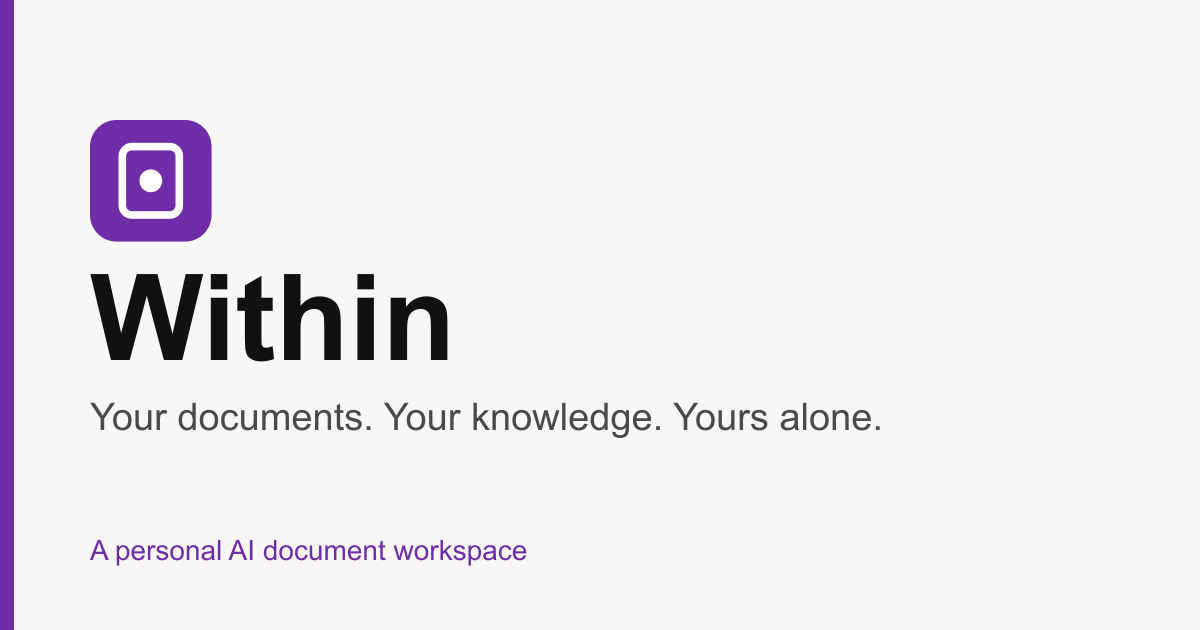
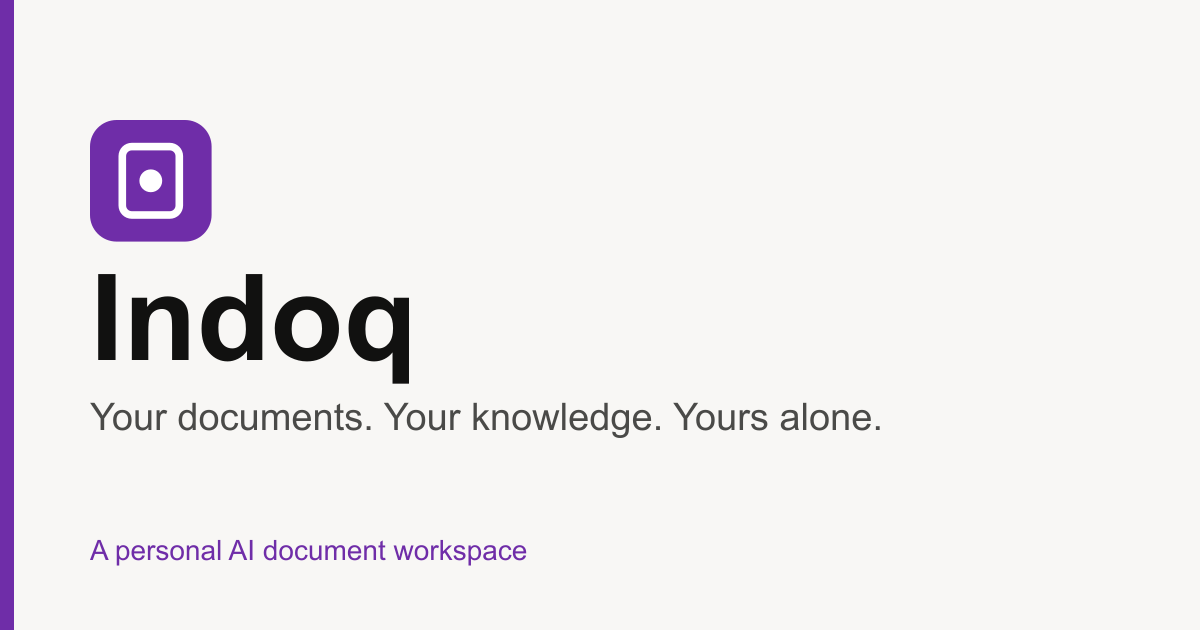
chore: rename the product from Within to Indoq

Changed region(s): [[0.0617, 0.4222, 0.4008, 0.6032]]

diff --git a/client/src/components/landing/ProductPreview.tsx b/client/src/components/landing/ProductPreview.tsx
@@ -1,7 +1,7 @@
 import { FileText, MessageSquare, Search } from "lucide-react";
 
 /*
-  A drawn copy of the Within workspace, not a screenshot, so it stays
+  A drawn copy of the Indoq workspace, not a screenshot, so it stays
   sharp at every size and follows the brand colours. The documents and
   the answer are illustrative examples.
 */
@@ -28,7 +28,7 @@ const ProductPreview = () => (
   <div className="landing-panel overflow-hidden rounded-2xl text-left">
     {/* Window bar */}
     <div className="flex items-center justify-between border-b border-white/10 px-4 py-3 sm:px-5">
-      <span className="font-display text-sm font-bold text-white">Within</span>
+      <span className="font-display text-sm font-bold text-white">Indoq</span>
       <div className="hidden items-center gap-1 rounded-full bg-white/5 p-1 text-[11px] sm:flex">
         <span className="rounded-full bg-white/10 px-3 py-1 text-white">Chat</span>
         <span className="px-3 py-1 text-white/50">Documents</span>

diff --git a/client/src/config/brand.ts b/client/src/config/brand.ts
@@ -1,16 +1,16 @@
 /*
   Single source of truth for all brand strings.
-  Working name: Within
+  Working name: Indoq
   When the final product name is chosen, we change this file only.
   Every title tag, OG tag, meta description, sitemap entry, and manifest entry pulls from here nothing else is hardcoded.
 */
 export const brand = {
-  name: "Within",
+  name: "Indoq",
   tagline: "Your documents. Your knowledge. Yours alone.",
   description:
-    "Within is a personal AI document workspace. Upload your documents, build a private knowledge base, and get grounded answers from your own sources.",
-  url: process.env.NEXT_PUBLIC_APP_URL ?? "https://within.app",
-  twitter: "@withinapp",
+    "Indoq is a personal AI document workspace. Upload your documents, build a private knowledge base, and get grounded answers from your own sources.",
+  url: process.env.NEXT_PUBLIC_APP_URL ?? "https://indoq.app",
+  twitter: "@indoqapp",
   og: {
     image: "/og-image.png",
   },

diff --git a/client/src/components/landing/Hero.tsx b/client/src/components/landing/Hero.tsx
@@ -40,7 +40,7 @@ const Hero = () => {
 
       <FadeUp onLoad delay={0.75}>
         <p className="mx-auto mt-6 max-w-xl text-base leading-relaxed text-white/70 sm:text-lg">
-          Upload PDFs, Word files and notes. Within reads them, indexes them, and answers your
+          Upload PDFs, Word files and notes. Indoq reads them, indexes them, and answers your
           questions with a citation to the exact passage.
         </p>
       </FadeUp>

diff --git a/client/src/components/conversation/ChatMessage.tsx b/client/src/components/conversation/ChatMessage.tsx
@@ -55,7 +55,7 @@ export const ChatMessage = ({
     >
       <div className="flex items-center gap-2 mb-1 px-1">
         <span className="text-xs font-medium text-text-secondary">
-          {isUser ? "You" : "Within"}
+          {isUser ? "You" : "Indoq"}
         </span>
         {formattedTime && (
           <span className="text-[10px] text-text-disabled">

diff --git a/client/src/components/landing/Bento.tsx b/client/src/components/landing/Bento.tsx
@@ -6,7 +6,7 @@ import RevealText from "./RevealText";
 /*
   The capabilities grid. Like the reference it mixes one solid accent
   card, a tilted product view, a conversation, and a card with a call
-  to action. All content describes what Within really does.
+  to action. All content describes what Indoq really does.
 */
 
 const Sparkles = () => (

diff --git a/client/src/components/landing/FormatStrip.tsx b/client/src/components/landing/FormatStrip.tsx
@@ -2,7 +2,7 @@ import { FileCode2, FileText, FileType2, NotebookText } from "lucide-react";
 import FadeUp from "./FadeUp";
 
 /*
-  Where the reference shows customer logos. Within has none to show
+  Where the reference shows customer logos. Indoq has none to show
   yet, so the strip lists the file types it reads instead.
 */
 const FORMATS = [

diff --git a/server/src/server.ts b/server/src/server.ts
@@ -85,7 +85,7 @@ const start = async () => {
   startIngestionWorker(); // start the ingestion worker to process document ingestion jobs
 
   app.listen(env.PORT, () => {
-    console.log(`Within API running on port ${env.PORT} [${env.NODE_ENV}]`);
+    console.log(`Indoq API running on port ${env.PORT} [${env.NODE_ENV}]`);
   });
 };
 

diff --git a/client/src/store/workspace.store.ts b/client/src/store/workspace.store.ts
@@ -26,7 +26,7 @@ export const useWorkspaceStore = create<WorkspaceStore>()(
         set((state) => ({ sidebarOpen: !state.sidebarOpen })),
     }),
     {
-      name: "within-workspace",
+      name: "indoq-workspace",
       partialize: (state) => ({
         activeWorkspaceId: state.activeWorkspaceId,
       }),

diff --git a/client/src/components/conversation/ConversationFeed.tsx b/client/src/components/conversation/ConversationFeed.tsx
@@ -174,7 +174,7 @@ export const ConversationFeed = ({
             >
               <div className="flex items-center gap-2 mb-1 px-1">
                 <span className="text-xs font-medium text-text-secondary">
-                  Within
+                  Indoq
                 </span>
               </div>
 

diff --git a/client/src/store/ui.store.ts b/client/src/store/ui.store.ts
@@ -55,7 +55,7 @@ export const useUIStore = create<UIStore>()(
       },
     }),
     {
-      name: "within-ui",
+      name: "indoq-ui",
       partialize: (state) => ({ theme: state.theme }),
       onRehydrateStorage: () => (state) => {
         if (state?.theme) applyTheme(state.theme);

diff --git a/client/src/lib/api.ts b/client/src/lib/api.ts
@@ -1,5 +1,5 @@
 /*
-  Typed API client for the Within Node backend.
+  Typed API client for the Indoq Node backend.
   All requests to the backend go through these functions. we never call the backend directly from components.
 */
 
